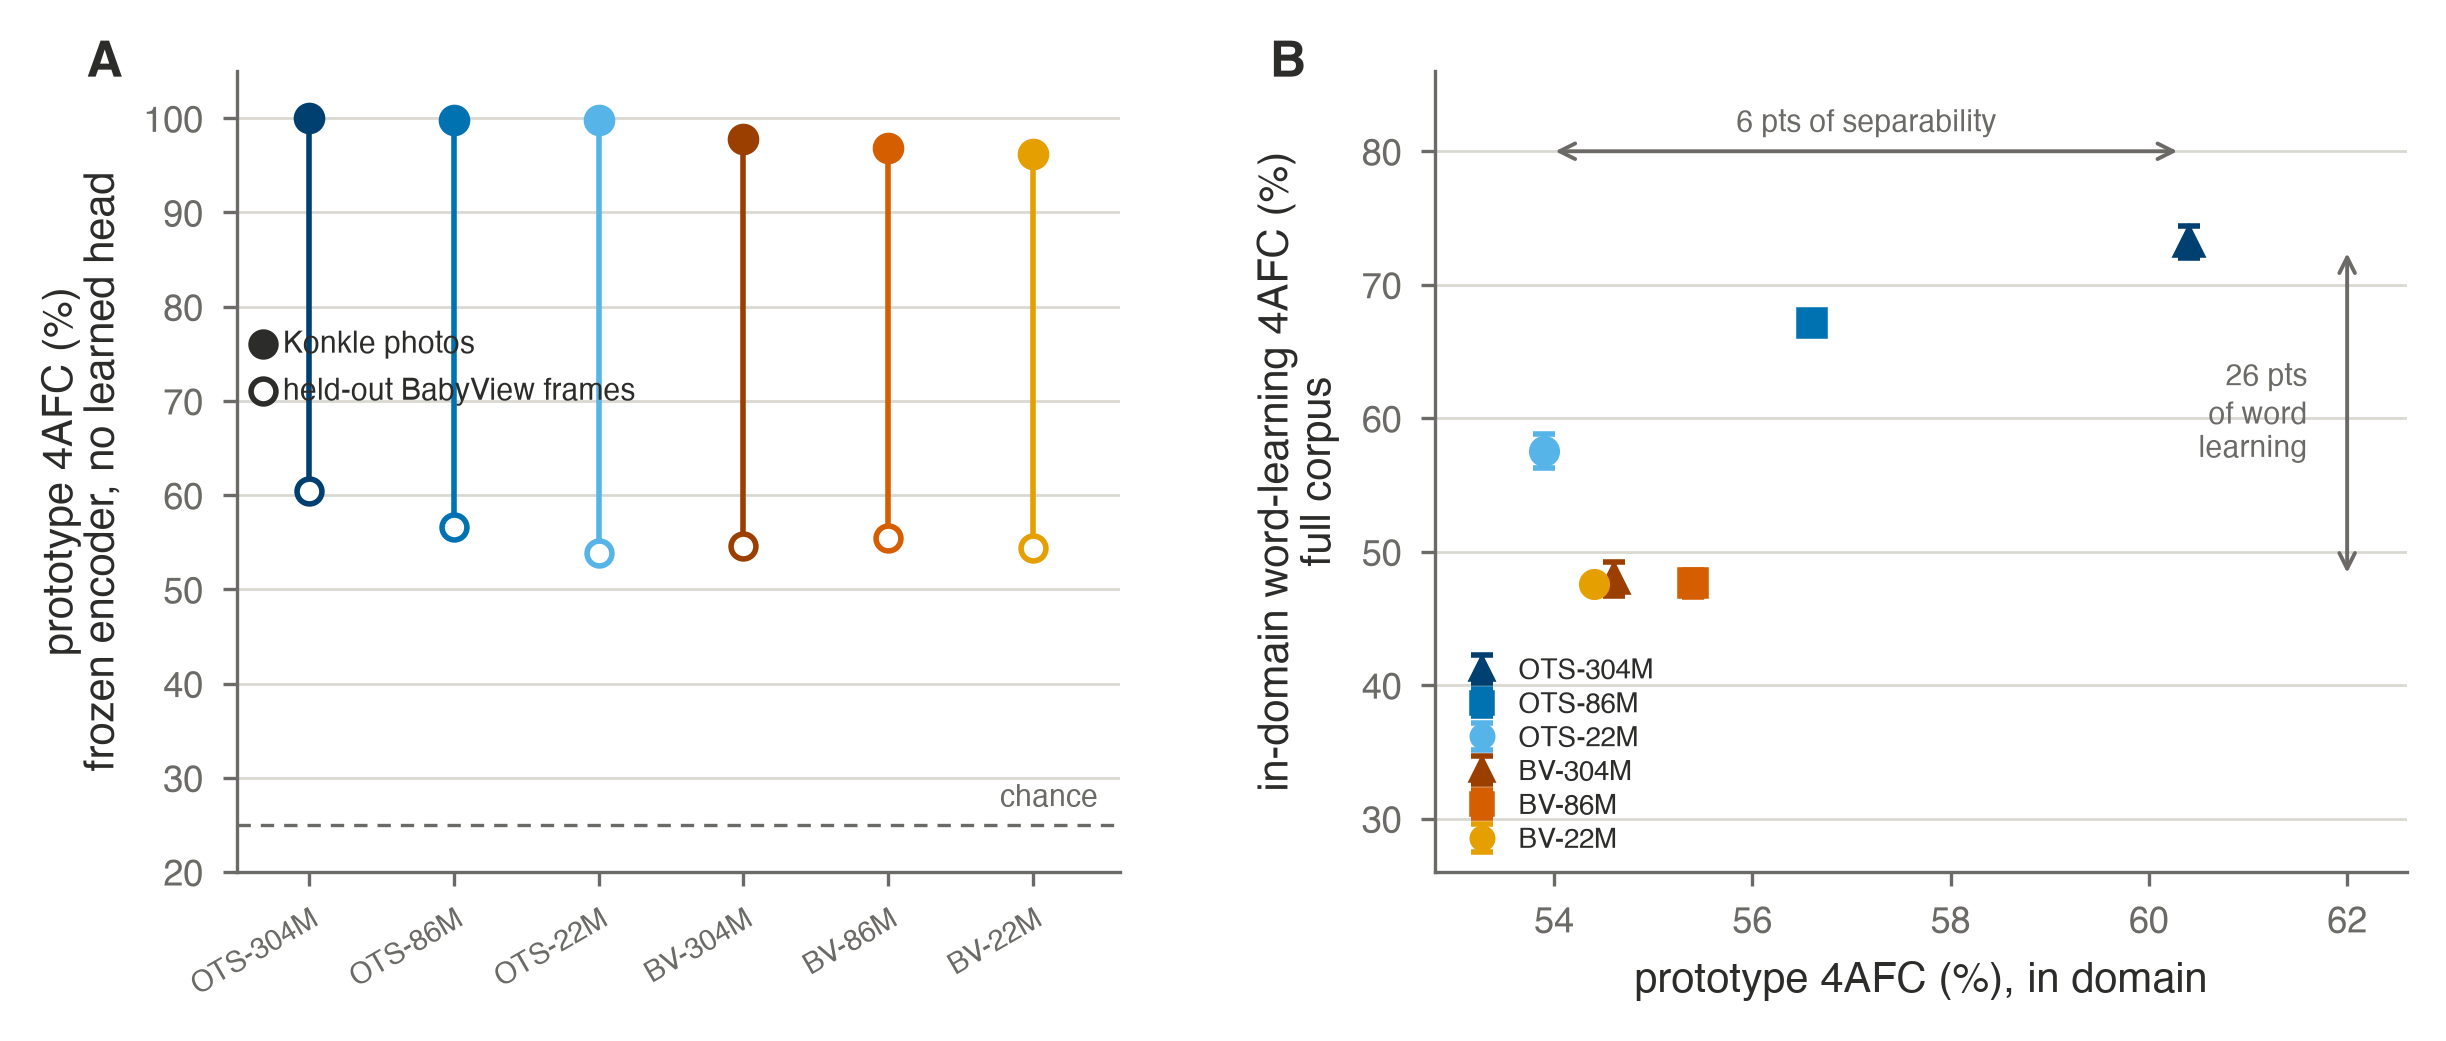
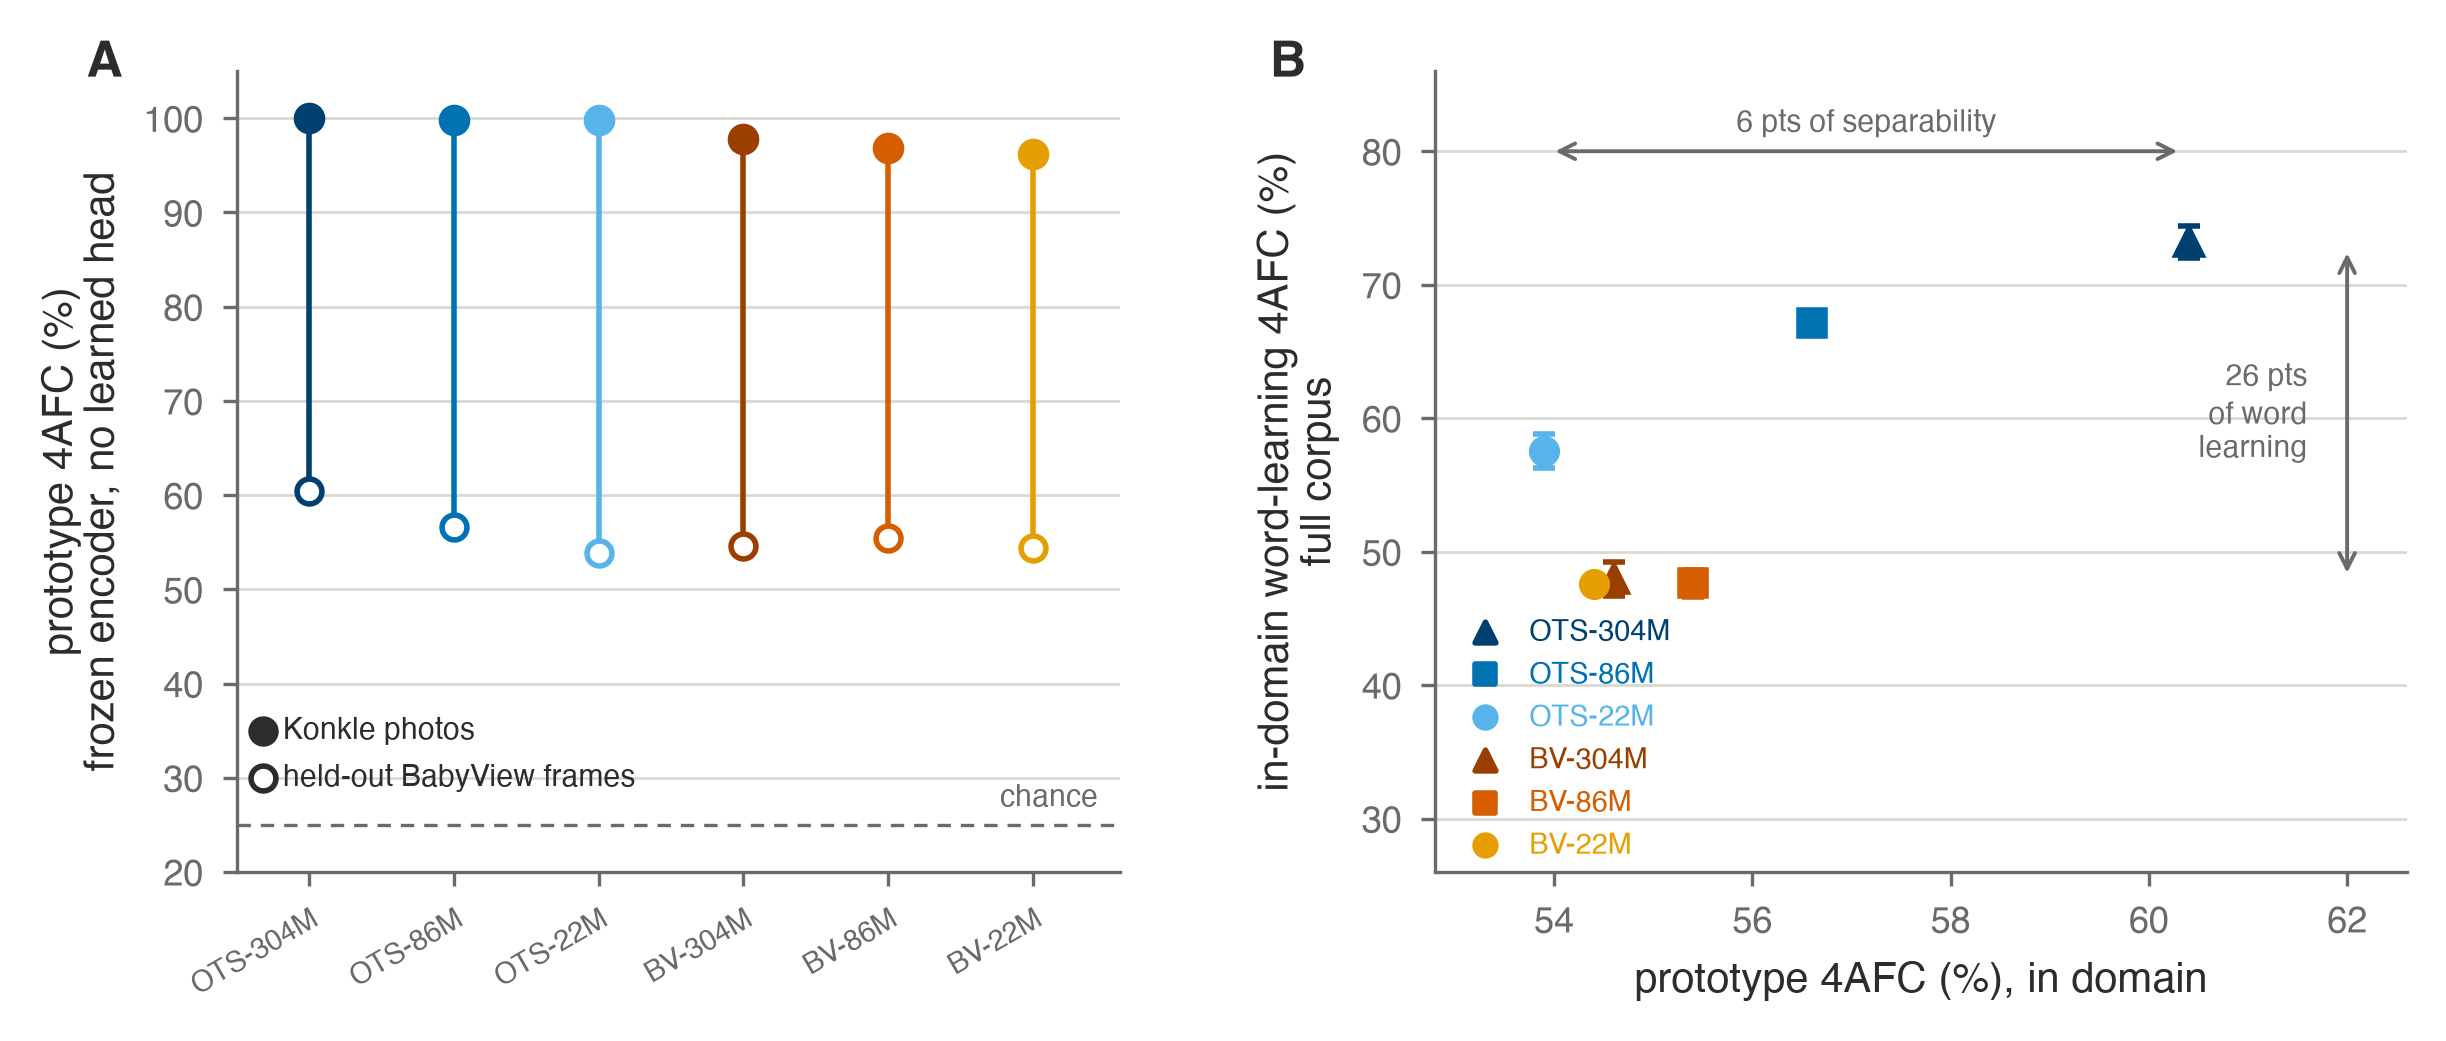
figS_encoder_probe: panel A key below the lollipops; panel B encoder key drawn like the nomil/window keys

Changed region(s): [[0.5904, 0.5841, 0.6836, 0.83], [0.0932, 0.3074, 0.2486, 0.3996], [0.0932, 0.6763, 0.2486, 0.7685]]

diff --git a/figures/figS_encoder_probe.py b/figures/figS_encoder_probe.py
@@ -37,7 +37,7 @@ for i, (enc, key, col) in enumerate(ENC):
     ax.scatter([i], [d["indomain"]], s=20, facecolors="white", edgecolors=col, lw=1.0, zorder=3)
 ax.axhline(25, color=T.SUB, lw=0.6, ls=(0, (4, 3)))
 ax.text(len(ENC) - 0.55, 27, "chance", fontsize=5.4, color=T.SUB, ha="right")
-for yy, fc, lb in [(76, T.INK, "Konkle photos"), (71, "white", "held-out BabyView frames")]:
+for yy, fc, lb in [(35, T.INK, "Konkle photos"), (30, "white", "held-out BabyView frames")]:
     ax.scatter([-0.32], [yy], s=20, facecolors=fc, edgecolors=T.INK, lw=1.0, zorder=4,
                clip_on=False)
     ax.text(-0.18, yy, lb, fontsize=5.4, color=T.INK, va="center")
@@ -53,7 +53,7 @@ for enc, key, col in ENC:
     x = pr[(pr.encoder == enc) & (pr.domain == "indomain")].proto.iloc[0]
     d = ind[(ind.encoder == enc) & (ind.N == 1686105)].acc
     bx.errorbar([x], [d.mean()], yerr=[d.std()], fmt=MK[enc], color=col, ms=4.6,
-                elinewidth=0.8, capsize=2, zorder=3, label=key)
+                elinewidth=0.8, capsize=2, zorder=3)
 xr = pr[pr.domain == "indomain"].proto
 yr = [ind[(ind.encoder == e) & (ind.N == 1686105)].acc.mean() for e, _, _ in ENC]
 bx.annotate("", xy=(xr.min(), 80), xytext=(xr.max(), 80),
@@ -64,8 +64,10 @@ bx.annotate("", xy=(62.0, min(yr)), xytext=(62.0, max(yr)),
             arrowprops=dict(arrowstyle="<->", color=T.SUB, lw=0.7))
 bx.text(61.6, (min(yr) + max(yr)) / 2, f"{max(yr) - min(yr):.0f} pts\nof word\nlearning",
         fontsize=5.4, color=T.SUB, va="center", ha="right", linespacing=1.3)
-bx.legend(loc="lower left", fontsize=5.0, handletextpad=0.3, borderpad=0.2, labelspacing=0.3,
-          markerscale=0.8)
+# encoder key, drawn the same way as the keys in figS_nomil / figS_window
+for i, (enc, key, col) in enumerate(ENC):
+    bx.scatter([53.3], [44 - i * 3.2], s=14, color=col, marker=MK[enc], zorder=4)
+    bx.text(53.75, 44 - i * 3.2, key, fontsize=5.2, color=col, va="center")
 bx.set_xlim(52.8, 62.6); bx.set_ylim(26, 86)
 bx.set_xlabel("prototype 4AFC (%), in domain")
 bx.set_ylabel("in-domain word-learning 4AFC (%)\nfull corpus")
